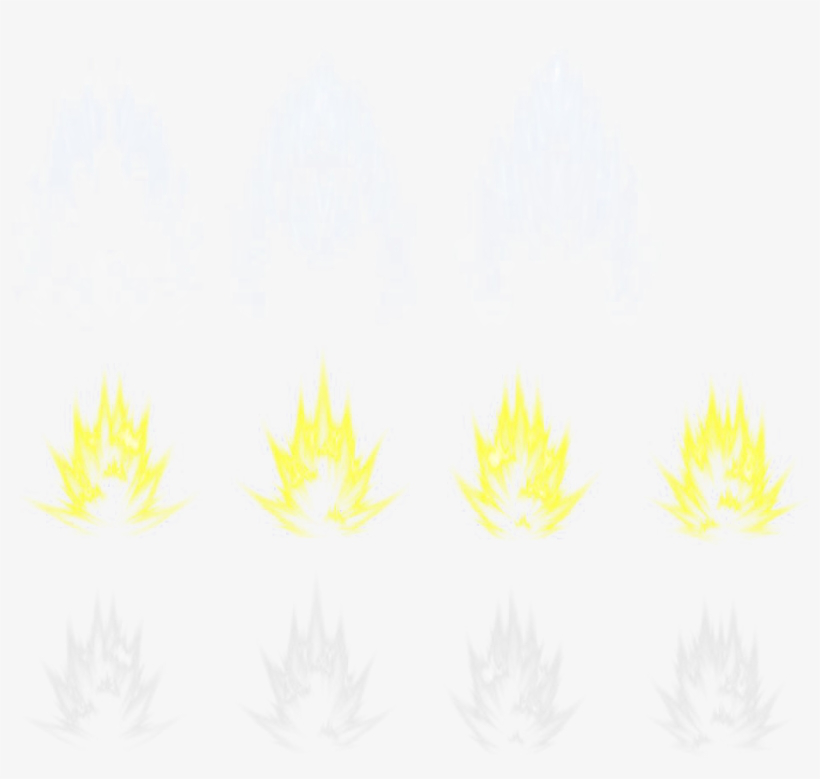
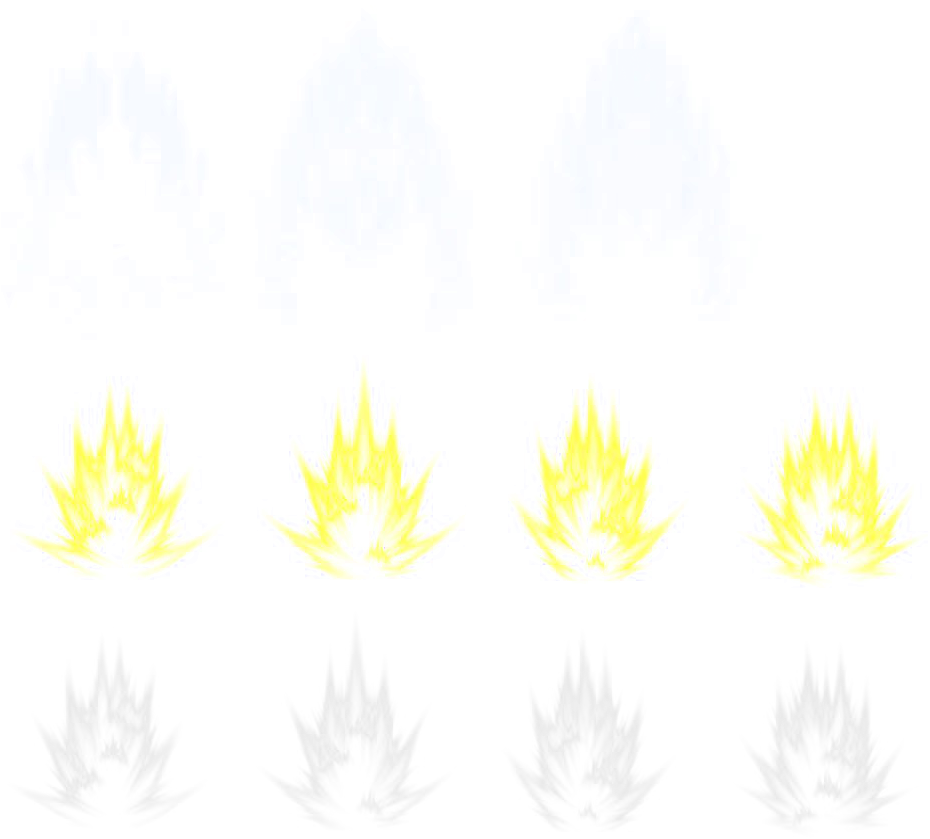
ADDED: animation

diff --git a/server/src/game_handling/game_update_incantations.c b/server/src/game_handling/game_update_incantations.c
@@ -48,12 +48,15 @@ static void game_increase_trantorians_level(core_t *core,
 {
     node_t *node = NULL;
     trantorian_t *trant = NULL;
+    bool lvl_up = false;
     char *temp = NULL;
 
     foreach(incantation->trantorians->head, node) {
         trant = (trantorian_t *)node->data;
-        if (trant->lvl_up == true)
+        if (trant->lvl_up == true) {
+            lvl_up = true;
             trant->level++;
+        }
         temp = get_level_str(trant->level);
         if (temp == NULL) {
             fprintf(stderr, "[ERROR] Malloc failed\n");
@@ -61,8 +64,7 @@ static void game_increase_trantorians_level(core_t *core,
         }
         client_push_command(core->server, trant->client, temp);
     }
-    if (incantation->trantorians->head)
-        command_pie(core, incantation->trantorians->head->data);
+    command_pie(core, incantation->trantorians->head->data, lvl_up);
 }
 
 static bool game_update_invocation(core_t *core, incantation_t *incantation)

diff --git a/gui/src/command_gui/pie.c b/gui/src/command_gui/pie.c
@@ -16,7 +16,7 @@ static int get_pos(client_t *client, pos_t *pos, char *word)
     word = strtok(NULL, " \t\n");
     if (word == NULL)
         return 1;
-    pos->y = (client->size_map.y - 1) - atoi(word);
+    pos->y = (client->size_map.x - 1) - atoi(word);
     if (pos->x < 0 || pos->y < 0)
         return 1;
     return 0;
@@ -29,11 +29,11 @@ static int command(client_t *client, char *str)
 
     if (!word || get_pos(client, &pos, word) != 0)
         return 1;
-    client->map[pos.y][pos.x].incantation = true;
+    client->map[pos.y][pos.x].incantation = false;
     return 0;
 }
 
-int pic(client_t *client, char *str)
+int pie(client_t *client, char *str)
 {
     if (strcmp(str, "suc\n") == 0) {
         fprintf(stderr, "%s[ERROR]%s suc command received", R, W);

diff --git a/gui/src/graphics/draw.c b/gui/src/graphics/draw.c
@@ -90,10 +90,12 @@ void draw_all(client_t *client, int ratio, pos_t map, pos_t edge)
             (Rectangle){edge.x + x * ratio, edge.y + y * ratio, ratio, ratio},
             (Vector2){0, 0}, 0, RAYWHITE);
             draw_items(client->map[y][x], (pos_t){edge.x + x * ratio,
-            edge.y + y * ratio}, ratio);
+                edge.y + y * ratio}, ratio);
             draw_player(client->map[y][x], ratio, (pos_t){edge.x + x * ratio,
-            edge.y + y * ratio});
+                edge.y + y * ratio});
             draw_inventory(client, (pos_t){x, y}, map, edge);
+            draw_incantation(client->map[y][x], (pos_t){edge.x + x * ratio,
+                edge.y + y * ratio}, ratio);
         }
     }
 }

diff --git a/server/include/core.h b/server/include/core.h
@@ -92,7 +92,7 @@ void command_pnw(core_t *core, trantorian_t *trantorian);
 void command_pex(core_t *core, trantorian_t *trantorian);
 void command_pbc(core_t *core, trantorian_t *trantorian, char *message);
 void command_pic(core_t *core, trantorian_t *trantorian, list_t *trant);
-void command_pie(core_t *core, trantorian_t *trantorian);
+void command_pie(core_t *core, trantorian_t *trantorian, bool result);
 void command_pfk(core_t *core, trantorian_t *trantorian);
 void command_pdr(core_t *core, trantorian_t *trantorian, size_t nb_drop);
 void command_pgt(core_t *core, trantorian_t *trantorian, size_t nb_get);

diff --git a/gui/src/parse_ret.c b/gui/src/parse_ret.c
@@ -20,6 +20,7 @@ static const com_t com[] =
     {"tna\0", &tna},
     {"sgt\0", &sgt},
     {"pic\0", &pic},
+    {"pie\0", &pie},
     {NULL, NULL}
 };
 
@@ -94,7 +95,7 @@ bool parse_return(client_t *client, char *str)
     arg = (strcmp(command_name, "suc") == 0 || strcmp(command_name, "sbp") == 0)
         ? strdup(str) : get_command_arg(str);
     for (int i = 0; com[i].cmd != NULL; i++) {
-        if (strcmp(com[i].cmd, command_name) == 0) {
+        if (strncmp(com[i].cmd, command_name, strlen(com[i].cmd)) == 0) {
             com[i].func_ptr(client, arg);
             break;
         }

diff --git a/server/src/client_handling/gui_commands/pie.c b/server/src/client_handling/gui_commands/pie.c
@@ -8,14 +8,14 @@
 #include "utils.h"
 #include "core.h"
 
-void command_pie(core_t *core, trantorian_t *trantorian)
+void command_pie(core_t *core, trantorian_t *trantorian, bool result)
 {
     char *buff = NULL;
 
-    if (asprintf(&buff, "pie %ld %ld %ld\n",
+    if (asprintf(&buff, "pie %ld %ld %d\n",
             trantorian->pos.x,
             trantorian->pos.y,
-            trantorian->level) == -1) {
+            (int)result) == -1) {
         fprintf(stderr, "[ERROR] GUI Can't malloc\n");
         return;
     }

diff --git a/gui/src/send_message.c b/gui/src/send_message.c
@@ -19,7 +19,7 @@ bool send_message(list_t *pending, list_t *list, socket_t *socket, char *mess)
         return false;
     if (pending && list_push_data(pending, strdup(mess)) == -1)
         return false;
-    printf("message send [%s] to fd [%d]\n", mess,
-        ((socket_t *)((command_t *)list->head->data)->socks->head->data)->fd);
+    // printf("message send [%s] to fd [%d]\n", mess,
+    //     ((socket_t *)((command_t *)list->head->data)->socks->head->data)->fd);
     return true;
 }

diff --git a/gui/src/graphics/draw_items.c b/gui/src/graphics/draw_items.c
@@ -29,3 +29,14 @@ void draw_items(map_t tile, pos_t pos, int ratio)
             ratio / 5}, (Vector2){0, 0}, 0, RAYWHITE);
     }
 }
+
+void draw_incantation(map_t tile, pos_t pos, int ratio)
+{
+    Rectangle tmp = {0};
+
+    if (tile.incantation == false)
+        return;
+    tmp = (Rectangle){0 + (int)(GetTime() * 10) % 4 * 233, 210 * 2, 233, 210};
+    DrawTexturePro(get_textures()[16], tmp,
+        (Rectangle){pos.x, pos.y, ratio, ratio}, (Vector2){0, 0}, 0, RAYWHITE);
+}

diff --git a/gui/include/zappy_gui.h b/gui/include/zappy_gui.h
@@ -156,6 +156,7 @@ int get_item(map_t map, const char *object_name);
 int levels_nb(client_t *client, pos_t pos, int level);
 void unclick_rest(client_t *client, pos_t tile);
 
+void draw_incantation(map_t tile, pos_t pos, int ratio);
 void draw_items(map_t tile, pos_t pos, int ratio);
 void draw_inventory(client_t *client, pos_t pos, pos_t map, pos_t edge);
 void check_click(client_t *client, pos_t map, pos_t edge);

diff --git a/gui/include/command.h b/gui/include/command.h
@@ -23,6 +23,7 @@ int plv(client_t *client, char *str);
 int tna(client_t *client, char *str);
 int sgt(client_t *client, char *str);
 int pic(client_t *client, char *str);
+int pie(client_t *client, char *str);
 
 typedef struct com_s {
     const char *cmd;

diff --git a/gui/src/graphics/utils.c b/gui/src/graphics/utils.c
@@ -24,6 +24,7 @@ static const char *paths[] = {
     "gui/resources/6.png",
     "gui/resources/7.png",
     "gui/resources/sky.png",
+    "gui/resources/incantation.png",
     NULL
 };
 
